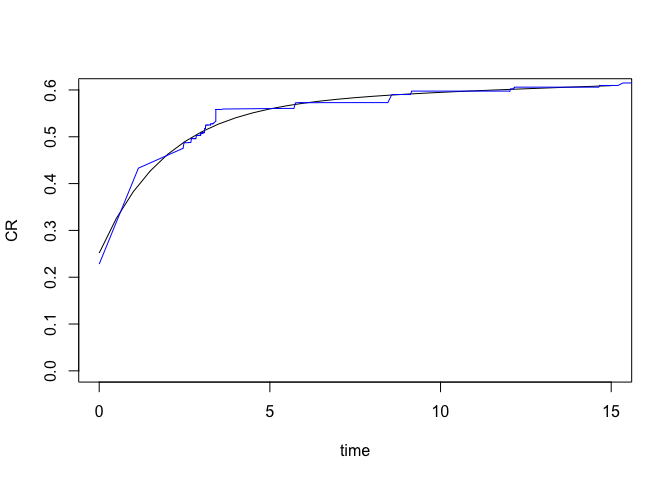
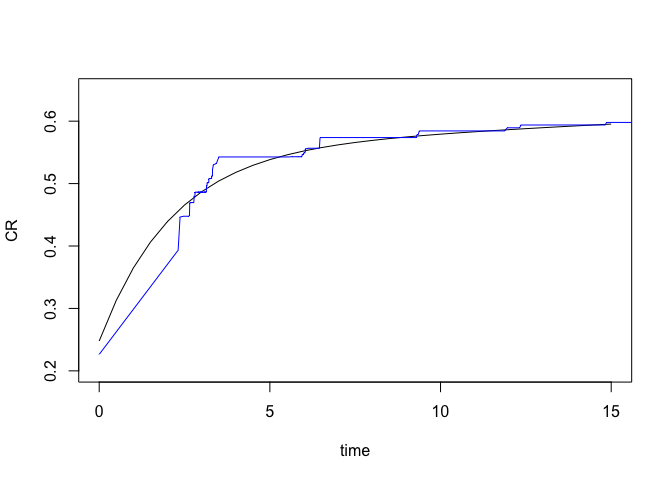
updated README

diff --git a/README.md b/README.md
@@ -6,11 +6,19 @@
 <!-- badges: start -->
 <!-- badges: end -->
 
-An `R` package for fitting a prevalence-incidence-cure (PIC) model
-interval-censored screening data of a population with a temporarily
-elevated risk of disease.
-
-The goal of PICmodel is to …
+`PICmodel`: A prevalence-incidence-cure (PIC) model for
+interval-censored data to estimate the cumulative disease risk in a
+population with a temporarily elevated risk of disease, e.g., risk of
+CIN2+ in HPV-positive women. In longitudinal screening studies it is
+possible to observe prevalent, early or late events during follow-up. In
+our model, early events are modelled via a competing risks framework,
+infections either progress to the disease state or to a (latent) “cure”
+state (i.e. viral clearance) at constant rates. Late events are modelled
+by adding background risk to the model. Parameters can depend on
+individual risk factors and are estimated with an
+expectation-maximisation (EM) algorithm with weakly informative Cauchy
+priors. More details are given in the accompanying paper: *eventual link
+to paper*.
 
 ## Installation
 
@@ -30,26 +38,29 @@ This is a basic example which shows you how to solve a common problem:
 library(PICmodel)
 sim.thetas <- c(-5, -1.6, -1.2, 0.25)
 sim.dat <- model.simulator(3000, c(), c(), c(), sim.thetas, show_prob = 0.9, interval=3, include.h=T)
-head(sim.dat)
-#>       left    right  z        age hpv cyt cause    actual
-#> 1 0.000000 0.000000  1  0.3715747   1   0     1 0.0000000
-#> 2 0.000000 0.000000  1  0.5315498   0   0     1 0.0000000
-#> 3 0.000000 3.084584 NA -0.5111330   0   0     2 0.2785294
-#> 4 2.718008 6.431231  0  0.7860201   1   1     2 3.5292963
-#> 5 0.000000 3.011932  0 -0.8007818   0   0     2 0.8103534
-#> 6 2.958886 9.222339  0 -0.3186591   1   1     2 4.1959996
-sim.fit <- model.fit(c(), c(), c(), sim.dat)
-sim.fit$summary
+head(sim.dat) # view simulated data
+#>       left    right z       age hpv cyt cause   actual
+#> 1 0.000000 0.000000 1 0.3316258   0   0     1 0.000000
+#> 2 0.000000 3.053300 0 0.1106357   0   1     2 1.133672
+#> 3 0.000000 0.000000 1 0.3027752   1   0     1 0.000000
+#> 4 2.980117 6.196289 0 0.7201633   1   0     2 2.981977
+#> 5 0.000000 2.812348 0 0.6568460   0   1     2 1.903825
+#> 6 2.725478 6.163698 0 0.2449390   0   1     2 4.741056
+sim.fit <- model.fit(c(), c(), c(), sim.dat) # fit model to simulated data
+sim.fit$summary # view model fit summary
 #>        param theta.hat std.dev   lower   upper
-#> h          h   -5.0545  0.1051 -5.2605 -4.8485
-#> g0 intercept   -1.5275  0.0526 -1.6306 -1.4244
-#> w0 intercept   -1.2276  0.0624 -1.3499 -1.1053
-#> p0 intercept    0.2516  0.0082  0.2355  0.2676
-
-library(survival)
-sim.km.fit <- survfit(Surv(sim.dat$left, sim.dat$right, type='interval2')~1)
+#> h          h   -5.0183  0.1080 -5.2299 -4.8066
+#> g0 intercept   -1.6763  0.0548 -1.7837 -1.5689
+#> w0 intercept   -1.2972  0.0680 -1.4305 -1.1639
+#> p0 intercept    0.2478  0.0081  0.2319  0.2637
 sim.predict <- model.predict(c(), c(), c(), data=sim.dat[1,], time.points = seq(0, 15, 0.5), fit=sim.fit)
-plot(sim.predict[[1]]$Time, sim.predict[[1]]$CR, type='l', xlab='time', ylab='CR', ylim=c(0, 0.6))
+
+
+library(survival) # compare model fit to non-parametric Kaplan-Meier curve 
+sim.km.fit <- survfit(Surv(sim.dat$left, sim.dat$right, type='interval2')~1)
+
+# plot PICmodel predictions and KM-curve to compare 
+plot(sim.predict[[1]]$Time, sim.predict[[1]]$CR, type='l', xlab='time', ylab='CR', ylim=c(0.2, 0.65))
 lines(sim.km.fit$time, 1-sim.km.fit$surv, col='blue')
 ```
 
